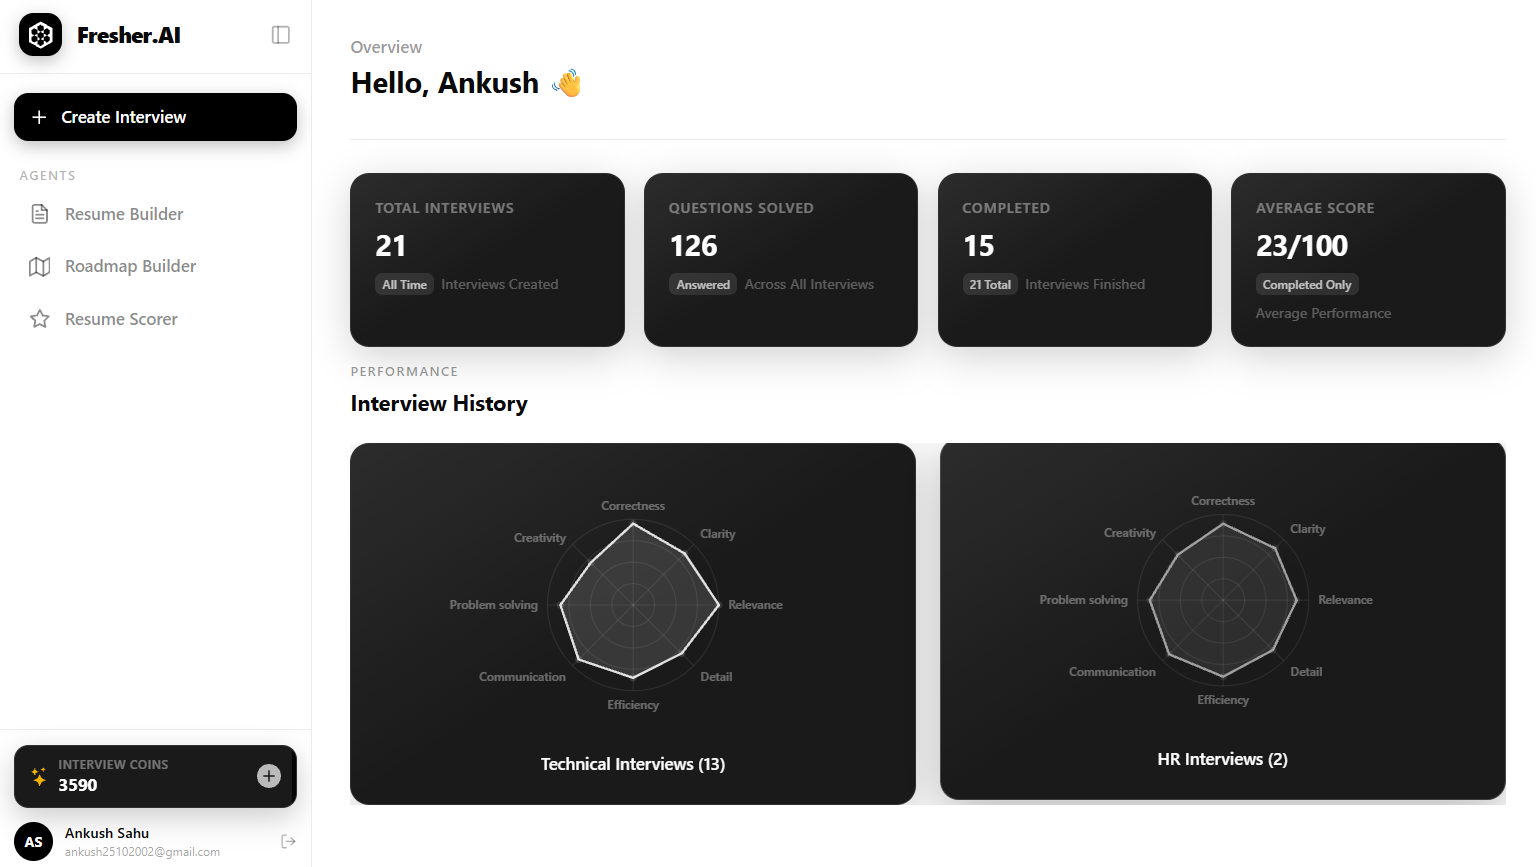
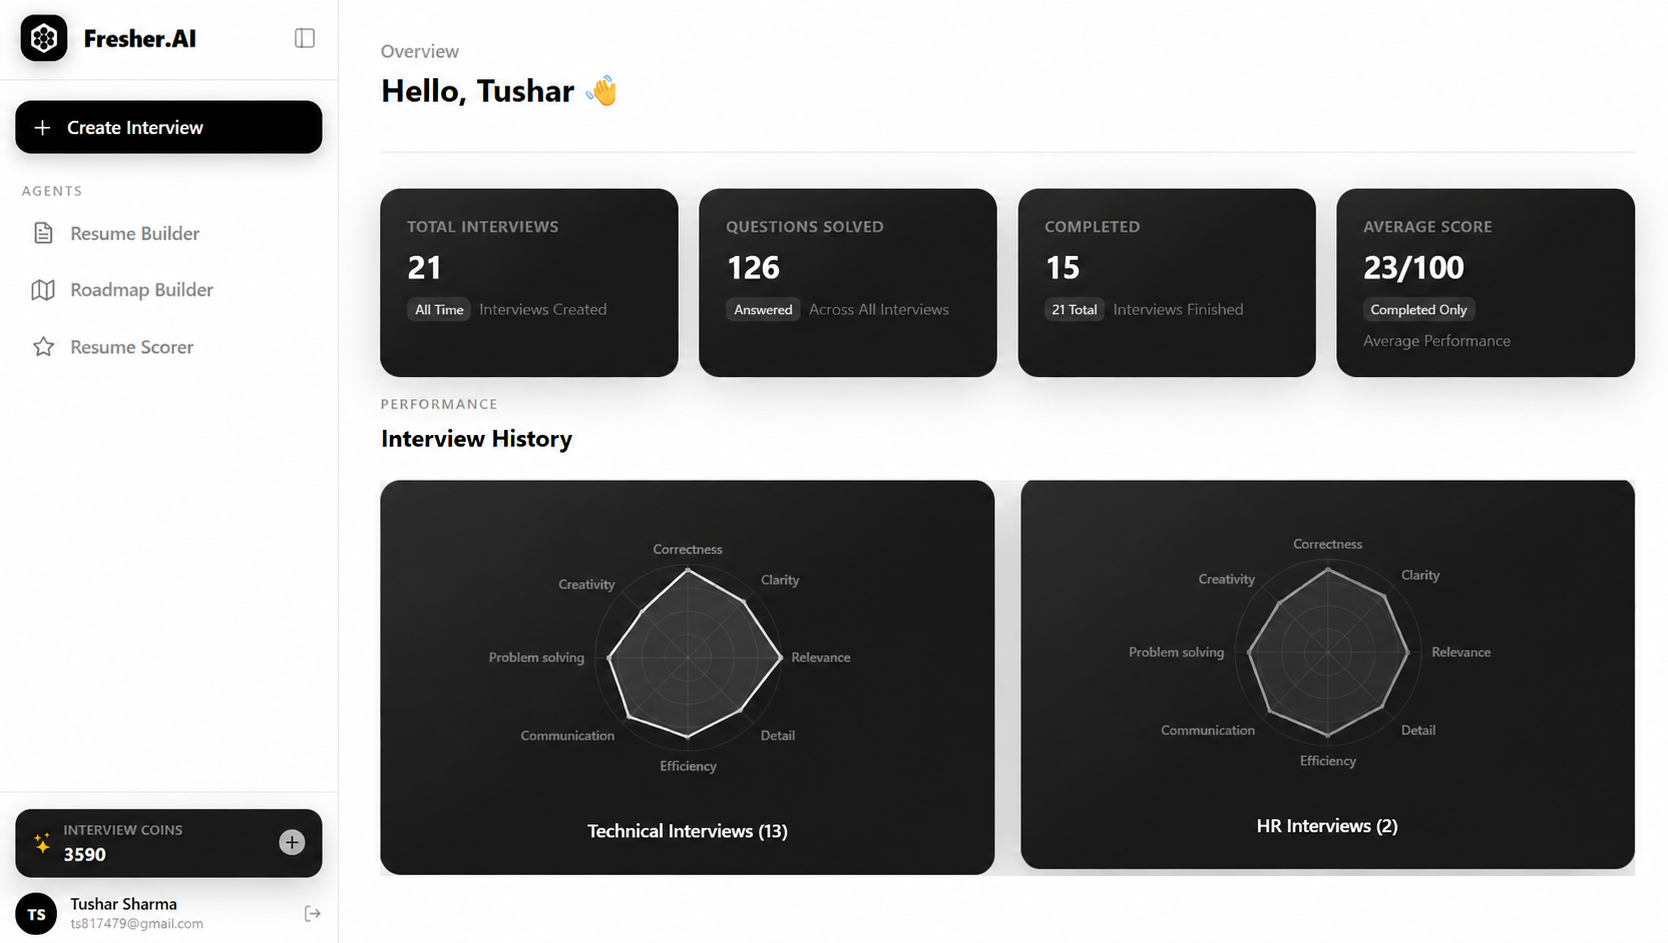
lc

diff --git a/frontend/src/components/resume/ResumeForm.jsx b/frontend/src/components/resume/ResumeForm.jsx
@@ -51,17 +51,17 @@ function ResumeForm({step , data , setData}) {
   if(step === 1){
     return(
         <div className='flex flex-col gap-3'>
-            <Input label="Full Name" placeholder="Rahul Sharma" onChange={(v)=>setData({...data , name:v})} value={data.name}/>
+            <Input label="Full Name" placeholder="Tushar Sharma" onChange={(v)=>setData({...data , name:v})} value={data.name}/>
 
-            <Input label="Email" placeholder="rahul@email.com" onChange={(v) => setData({ ...data, email: v })} value={data.email}/>
+            <Input label="Email" placeholder="tushar@email.com" onChange={(v) => setData({ ...data, email: v })} value={data.email}/>
 
             <Input label="Phone"  placeholder="+91 9876543210"  onChange={(v) => setData({ ...data, phone: v })} value={data.phone}   />
 
-            <Input label="Location" placeholder="Jhansi, UP" onChange={(v) => setData({ ...data, location: v })} value={data.location} />
+            <Input label="Location" placeholder="Kathua, J&K" onChange={(v) => setData({ ...data, location: v })} value={data.location} />
 
-            <Input label="LinkedIn URL" placeholder="linkedin.com/in/rahul" onChange={(v) => setData({ ...data, linkedin: v })} value={data.linkedin} />
+            <Input label="LinkedIn URL" placeholder="linkedin.com/in/tushar" onChange={(v) => setData({ ...data, linkedin: v })} value={data.linkedin} />
 
-            <Input label="GitHub URL" placeholder="github.com/rahul" value={data.github}  onChange={(v) => setData({ ...data, github: v })}/>
+            <Input label="GitHub URL" placeholder="github.com/tushar" value={data.github}  onChange={(v) => setData({ ...data, github: v })}/>
 
         </div>
     )

diff --git a/frontend/src/App.jsx b/frontend/src/App.jsx
@@ -39,7 +39,7 @@ function App() {
 
     const getResumeData = async()=>{
       const result = await getResume()
-      dispatch(setResume(result?.data))
+      dispatch(setResume(result?.data)) //set resume data using redux for state management.
     }
 
     getResumeData()

diff --git a/backend/services/auth/controllers/auth.controller.js b/backend/services/auth/controllers/auth.controller.js
@@ -49,7 +49,7 @@ export const GoogleAuth = async (req,res) => {
     }
 }
 
-export const logOut = async()=>{
+export const logOut = async(req, res)=>{
     try{
         const sessionId = req.cookies?.session
 
